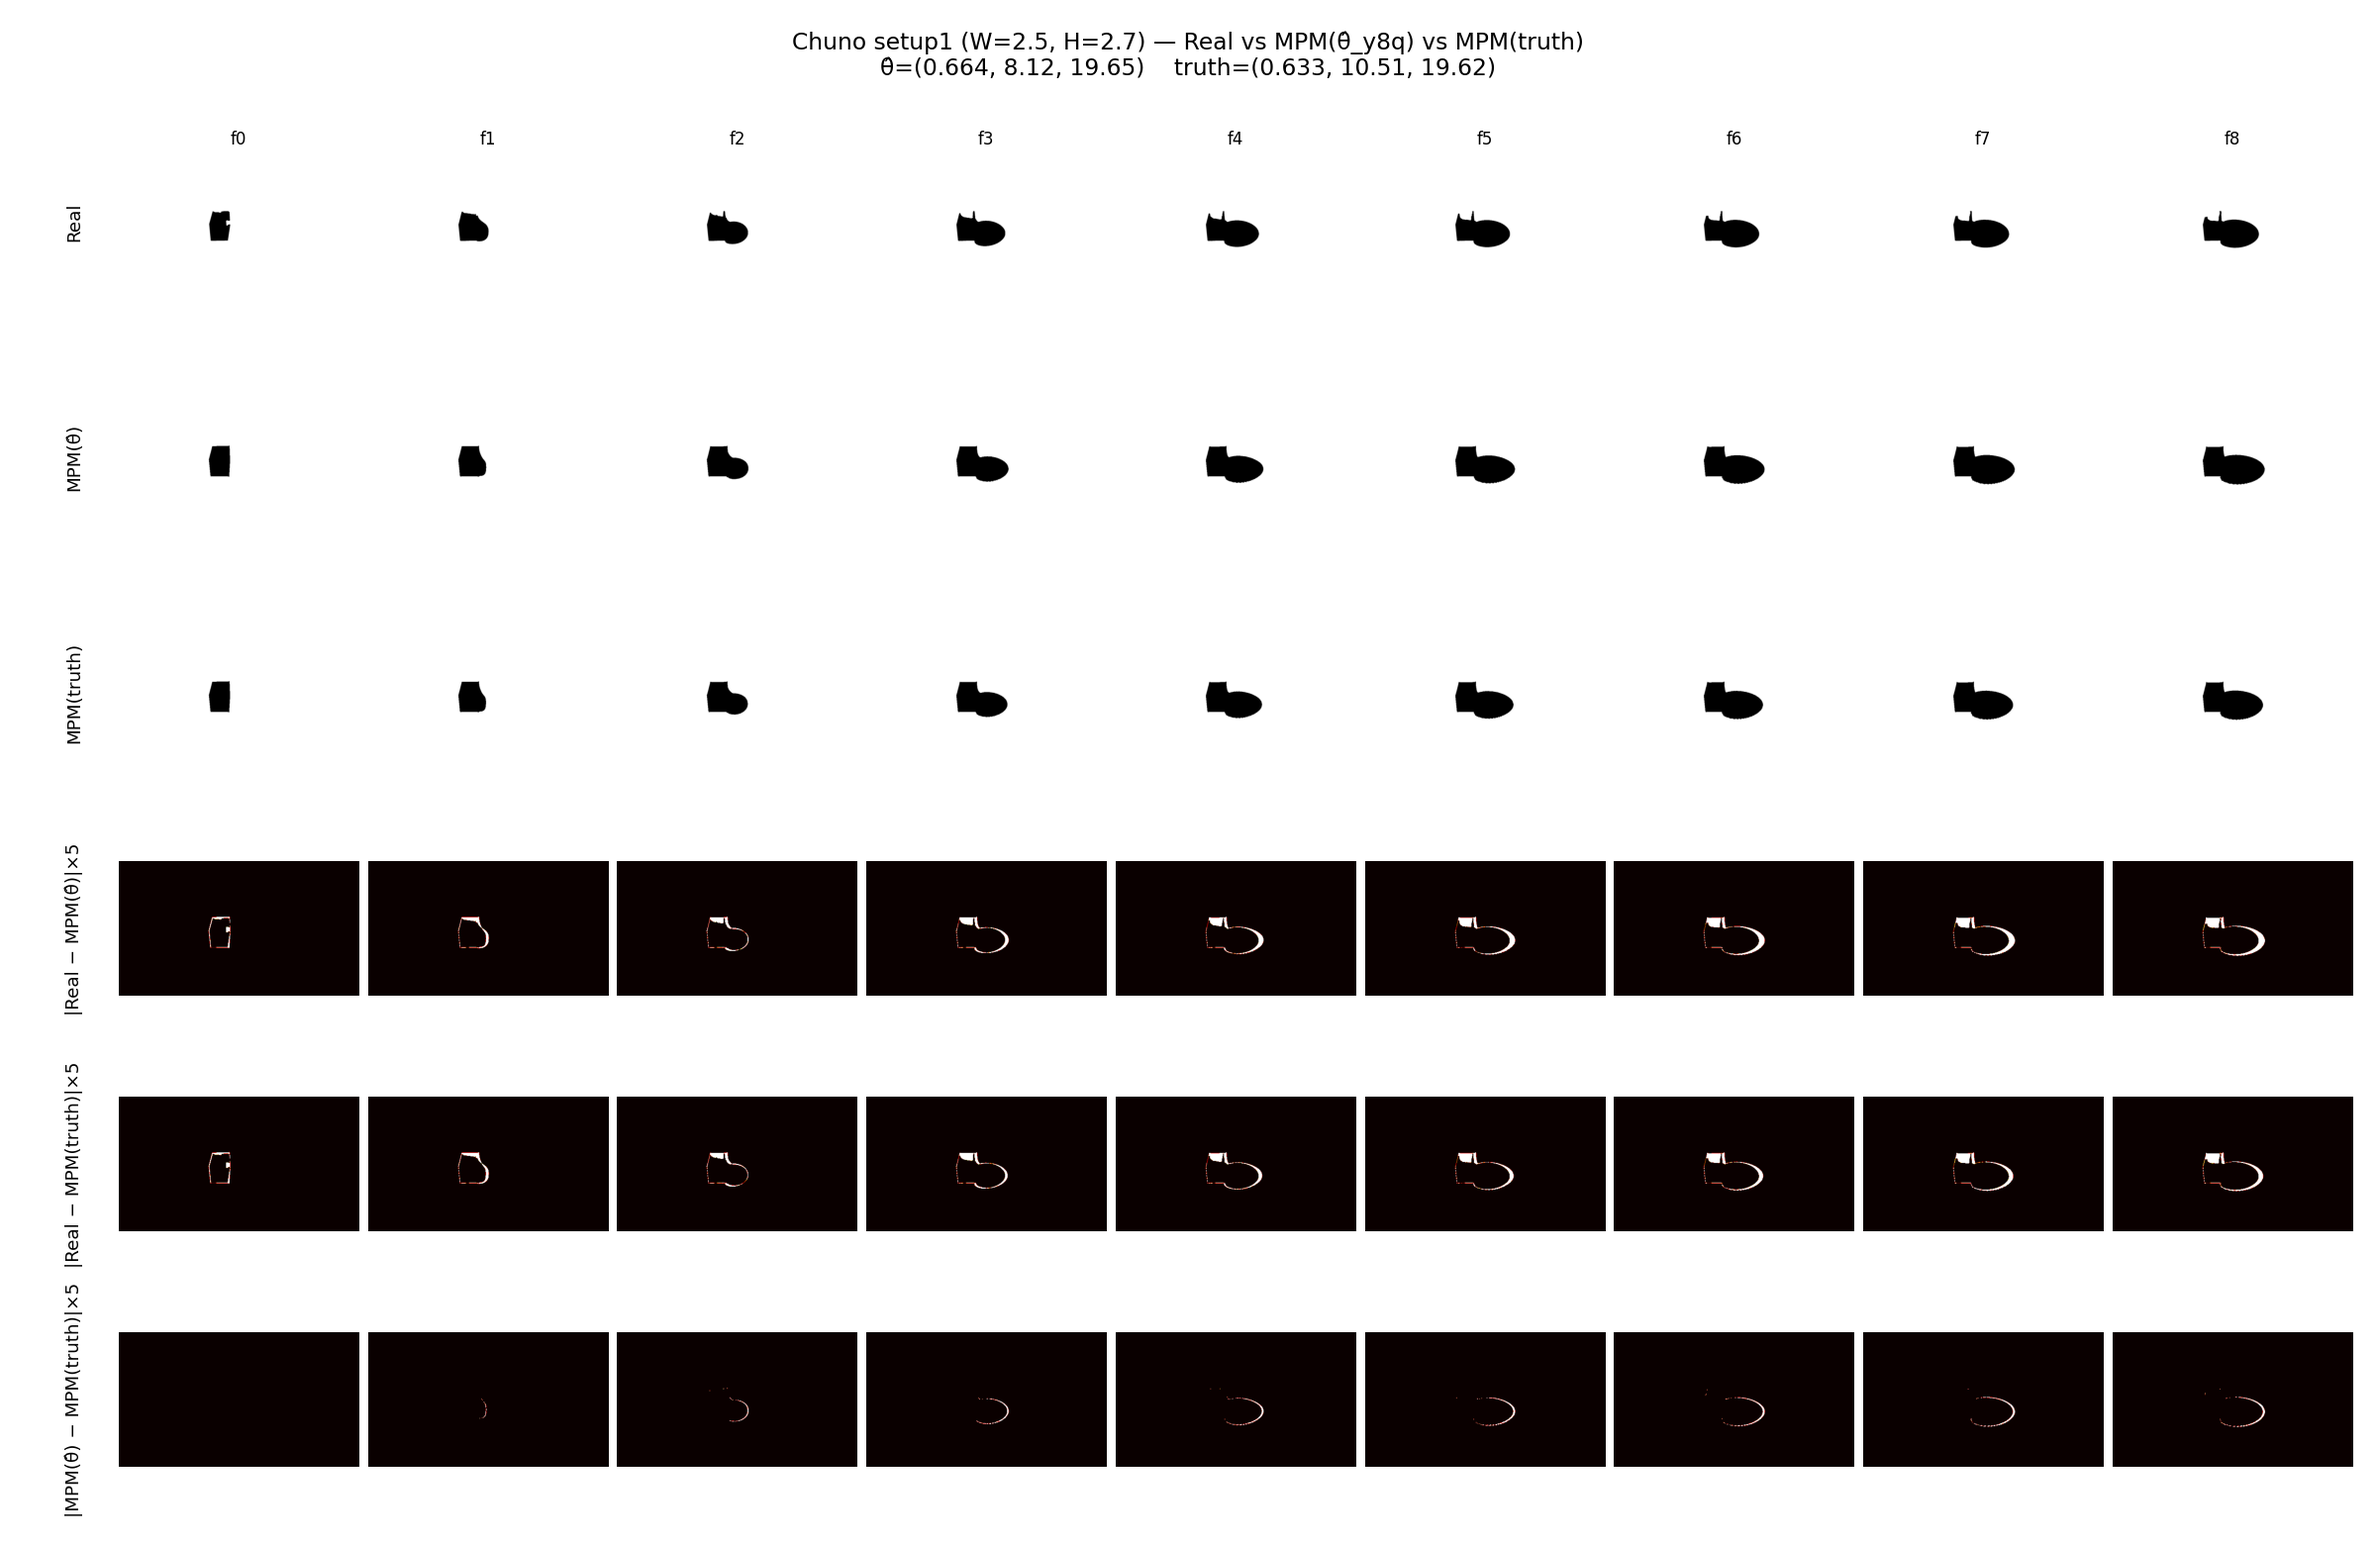
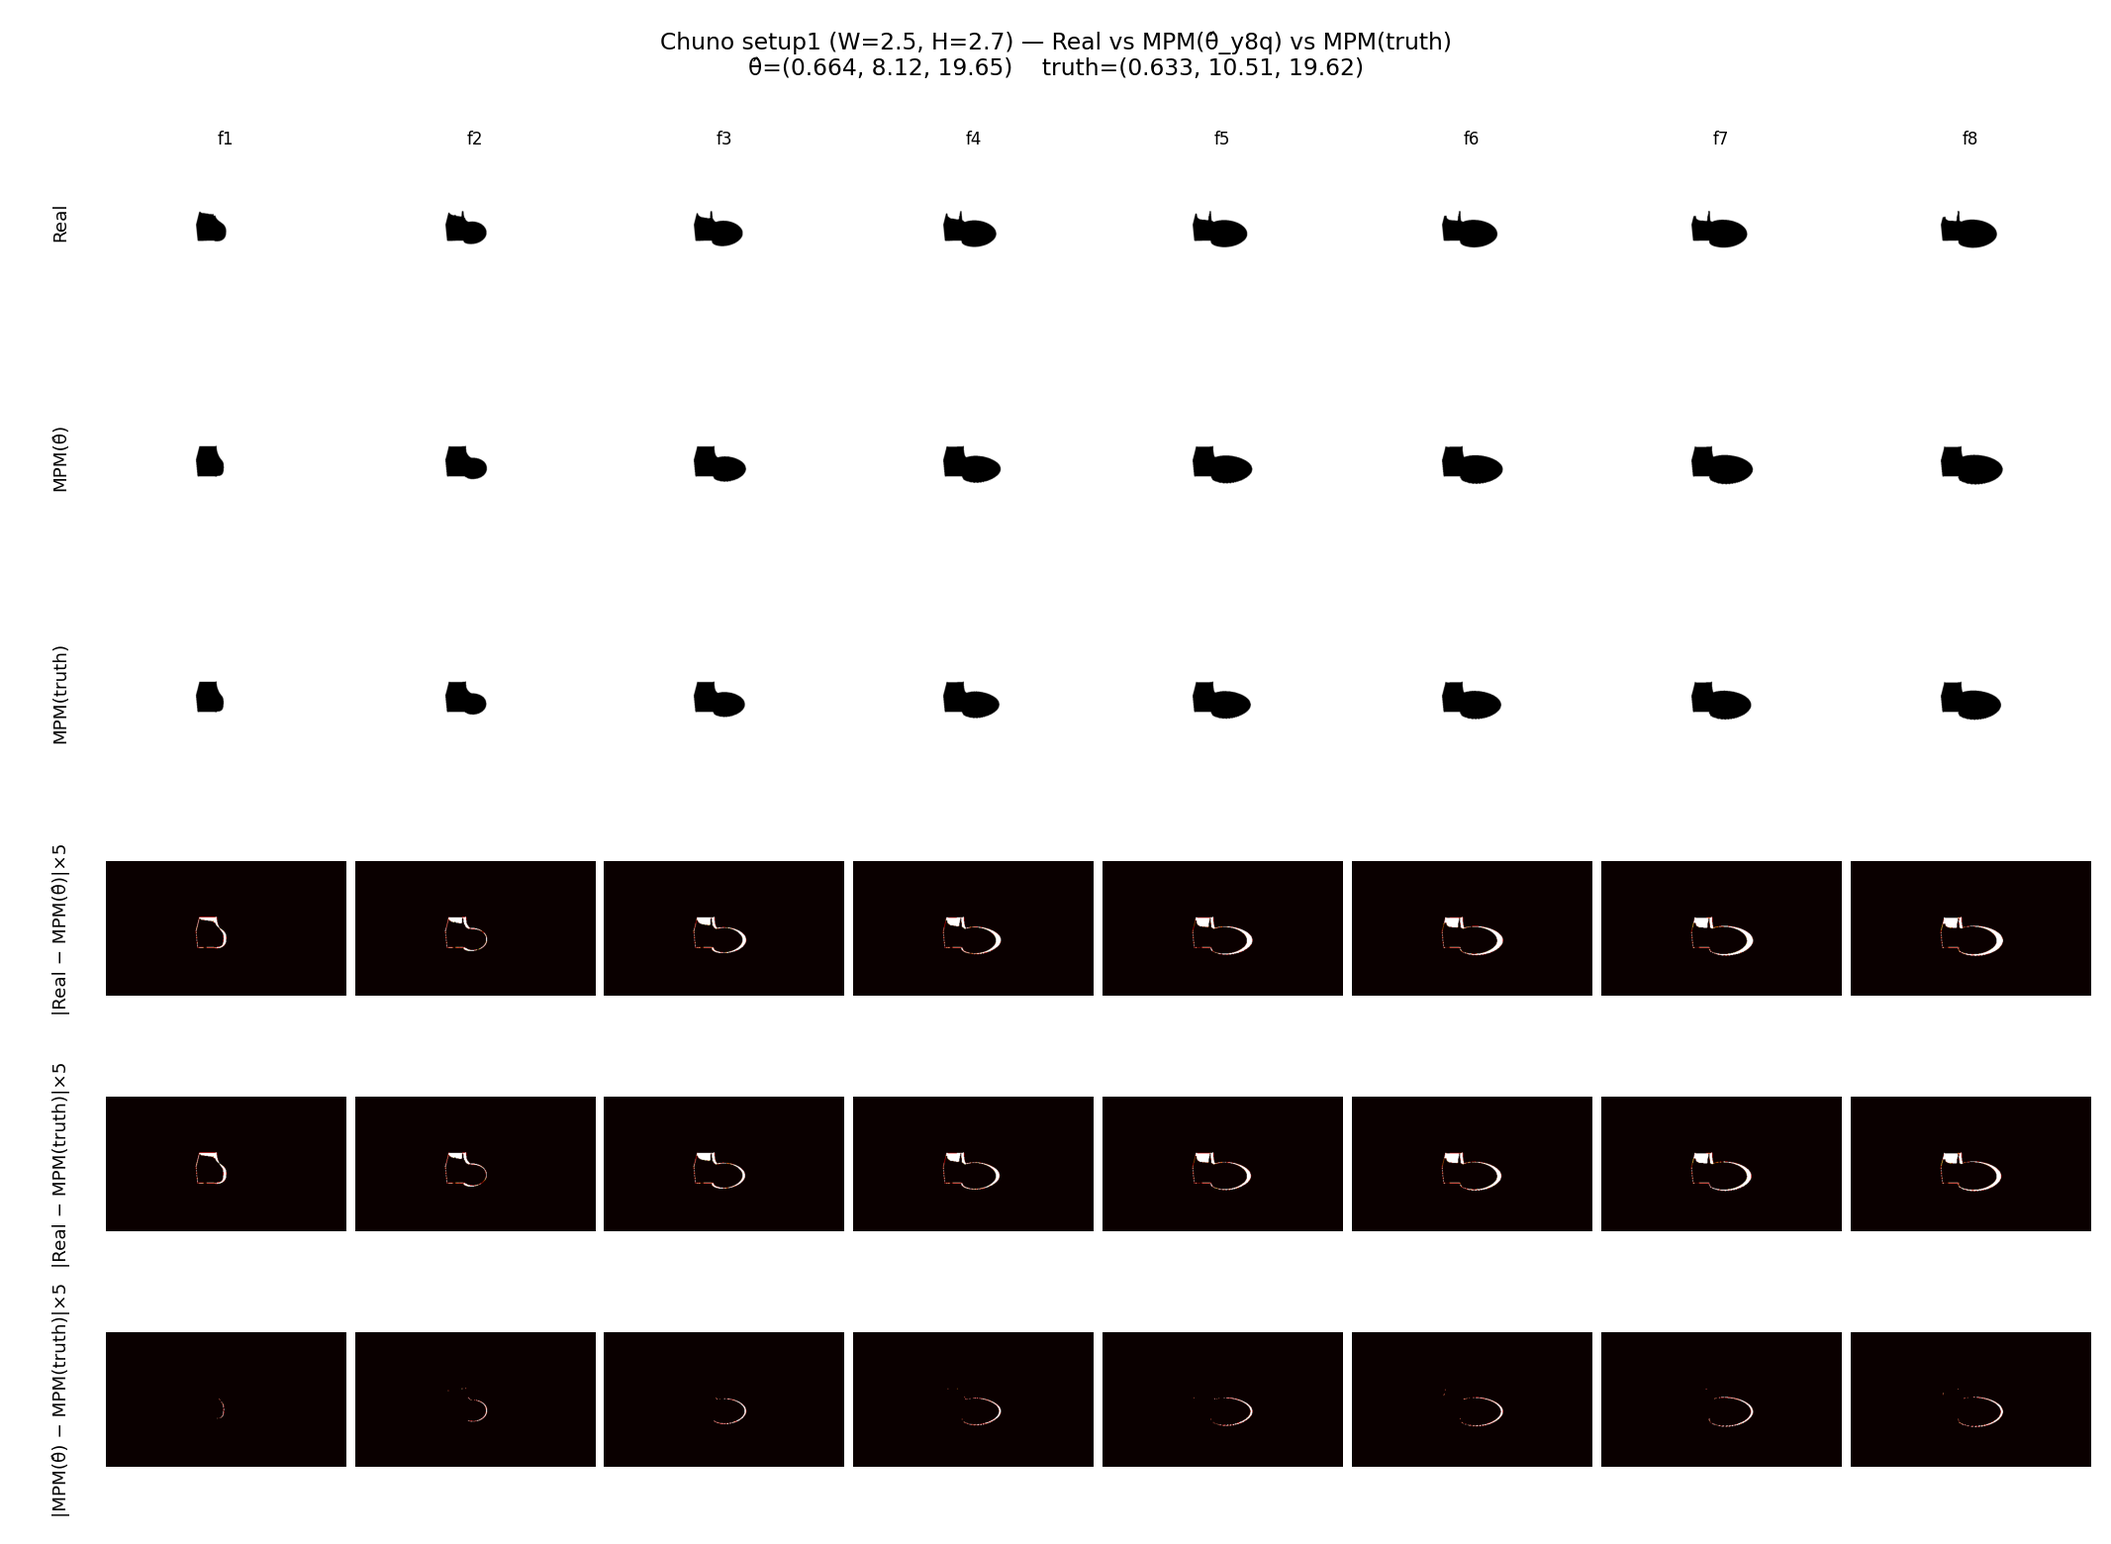
Snapdiff figures: skip config_00 (calibration frame); show f1..f8 only
config_00 is the pre-release / calibration frame and carries no flow-
inverse information.  Updated snapdiff_grid_v2.py to default to
frames=range(1, 9) (8 columns instead of 9).

Re-rendered 4 snapdiff figures (Chuno + Okonomi setup1/setup2) with
the v2 production-default θ̂ values.  Layout cleaner; all paper claims
unchanged.

Note on v1 vs v2 trade-off (decided to keep v2 default):
  Chuno   v2: σ_y +0.2%   MPM(θ̂)≈MPM(truth) at sub-pixel  flowcurve ✓
  Okonomi v2: σ_y +12%    HB ridge (n,η) degenerate         flowcurve ✓
  Okonomi v1: σ_y -4.2% but n=0.97 → flowcurve 3× truth at high γ̇ — paper-killer
  → v2 wins because it survives flowcurve fit on both materials.

diff --git a/scripts/snapdiff_grid_v2.py b/scripts/snapdiff_grid_v2.py
@@ -1,12 +1,15 @@
 """Generic snapdiff 6-row grid: Real vs MPM(θ̂) vs MPM(truth) + 3 pairwise diffs.
 
-Layout per setup (6 rows × 9 frames):
+Layout per setup (6 rows × 8 frames f1..f8):
     Row 1: Real            (camera y_obs)
     Row 2: MPM(θ̂)
     Row 3: MPM(truth)
     Row 4: |Real − MPM(θ̂)|       × amp
     Row 5: |Real − MPM(truth)|    × amp
     Row 6: |MPM(θ̂) − MPM(truth)| × amp
+
+config_00 is the calibration / pre-release frame and is excluded from
+the snapdiff display (only frames 1..8 carry inverse-relevant flow info).
 
 Two figures saved (setup1 + setup2 separate).
 
@@ -43,13 +46,15 @@ def make_setup_grid(real_dir: Path, hat_dir: Path, truth_dir: Path,
                      fig_title: str, out_path: Path,
                      theta_hat: tuple[float, float, float],
                      theta_truth: tuple[float, float, float],
-                     amp: float = 5.0):
-    fig, axes = plt.subplots(6, 9, figsize=(20, 13))
-    real_imgs = [load_grayscale(real_dir / f"config_{f:02d}.png") for f in range(9)]
-    hat_imgs  = [load_grayscale(hat_dir  / f"config_{f:02d}.png") for f in range(9)]
-    tr_imgs   = [load_grayscale(truth_dir / f"config_{f:02d}.png") for f in range(9)]
+                     amp: float = 5.0,
+                     frames: range = range(1, 9)):
+    n_cols = len(frames)
+    fig, axes = plt.subplots(6, n_cols, figsize=(20 * n_cols / 9, 13))
+    real_imgs = [load_grayscale(real_dir / f"config_{f:02d}.png") for f in frames]
+    hat_imgs  = [load_grayscale(hat_dir  / f"config_{f:02d}.png") for f in frames]
+    tr_imgs   = [load_grayscale(truth_dir / f"config_{f:02d}.png") for f in frames]
 
-    for i, f in enumerate(range(9)):
+    for i, f in enumerate(frames):
         axes[0, i].imshow(real_imgs[i], cmap="gray", vmin=0, vmax=255)
         axes[0, i].axis("off"); axes[0, i].set_title(f"f{f}", fontsize=10)
         axes[1, i].imshow(hat_imgs[i], cmap="gray", vmin=0, vmax=255); axes[1, i].axis("off")
